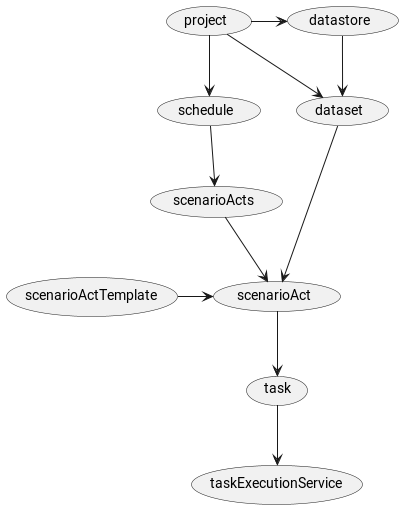
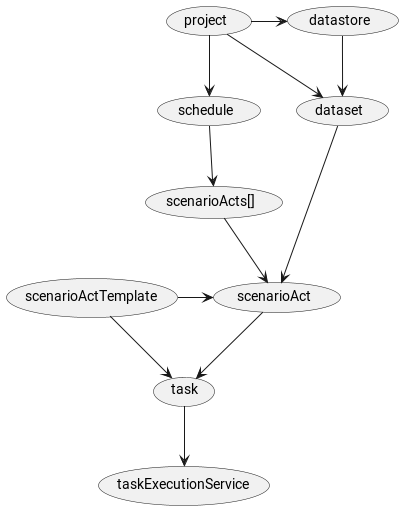
Docs and demo

diff --git a/doc/scheduling/Scheduling.md b/doc/scheduling/Scheduling.md
@@ -1,0 +1,54 @@
+# Работа с расписаниями
+## Структура расписания
+Конфигурация расписания содержит как простые атрибуты, так и коллекции вложенных конфигураций
+
+- **name** - уникальное ключевое имя расписания
+- **description** текстовое описание расписания для документирования
+- **intervalExpression** - кодированное выражение описывающее интервальность на пример "@daily"
+- **startDateTime** дата, которая служит отправной точкой для расчета первого интервала. Необязательно, что она будет равна дате первого расписания тк она рассчитывается с использованием интервального выражения
+- **stopDateTime** дата прекращения расчета новых интервалов, может быть пустой , что будет означать бесконечность
+- **enabled** включает/выключает процесс расчета новых расписание. Выключение так же приводит к прекращению обработки статусов уже работающих расписаний.
+- **scenarioActs** - это список вложенных частей сценария(Акты). Части сценария могут быть добавлены без учета порядка их выполнения
+  состав полей
+    - **name** ключевое имя акта. Должно быть уникально.
+    - **dataSet** ссылка на уникальное имя датасета
+    - **scenarioActTemplate** внутреннее устройство задач в акте может быть шаблонизировано, шаблоны используются повторно.
+    - **intervalStart** строковое выражение метки времени отражающего нижнюю границу окна времени в данных, которое будет изменено в датасете. Чаще всего отстает от целевого времени запуска пример "{{ adddays(targetDateTimeTZ, -1) }}".
+    - **intervalEnd** строковое выражение метки времени отражающего верхнюю границу окна времени в данных, которое будет изменено в датасете". Чаще всего может быть равно целевой метке времени "{{ targetDateTimeTZ }}"
+    - **tasks** Список вложенных объектов - описаний задач. Может быть пустым, но тогда должен быть задан шаблон. Этот список сливается со списком из шаблона. При наличии задачи с одинаковым ключем берутся обе и сливаются в одну. Их также будут слиты, значения атрибутов из текущего списка заменят значения из шаблона
+        - name ключевое имя задачи
+        - taskExecutionServiceGroupName тип исполнителя, которому можно брать эту задачу
+        - executionModule имя программного класса который должен будет исполнен
+        - importance при не успешности выполнения задачи не кричные вернут успех.
+        - description текстовое описание для документирования
+    - dagEdges - указывается порядок исполнения задач
+        - from с какой
+        - to какую
+    - scenarioActEdges - указывает порядок исполнения актов в сценарии
+        - from с какого
+        - to какой
+
+
+## Порядок получения и обработки расписания
+
+![ConfigQueueScheduleQueueTask.png](ConfigQueueScheduleQueueTask.png)
+
+При получении и обновлении расписания в сервисе конфигурации формируется сообщение в очередь kafka.
+Сервис расписаний подхватывает сообщение и обновляет расписание в оперативном кеше.
+
+### Внутренний планировщик 
+![SchedulerClasses.png](SchedulerClasses.png)
+С момента появления в кеше расписания и его регистрации, жизненным циклом расписаний управляет внутренний шедулер.
+Шедулер отвечает за формирование расписаний, запуск, и обслуживание 
+## Работа расписания
+
+![SchedulingOrder.png](SchedulingOrder.png)
+
+Каждый переход фиксируется изменением статусной модели.
+
+
+![ScheduleStatuses.png](ScheduleStatuses.png)
+
+
+
+

diff --git a/demo/README-INSTALL.md b/demo/README-INSTALL.md
@@ -55,6 +55,6 @@ docker container rm scheduler-svc
 Выполнить файл load.bash
 Он загрузит демонстрационные данные в сервис конфигурации. Через несколько секунд после этого сервис исполнитель начнет выполнять демонстрационные задачи
 
-### зависимость ключей в конфигурациях
+### Зависимость ключей в конфигурациях
 ![зависимость ключей в конфигурациях](../doc/entities_design/logical_entities_dependency.png)
 

diff --git a/demo/README-SCENARIO.md b/demo/README-SCENARIO.md
@@ -58,7 +58,7 @@ regular тоже начнет работать в феврале, но он су
 
 Несмотря на путаницу в расписаниях, мы получаем строго полный год данных на всех датасетах
 
-
+## Способ наблюдения
 Для наблюдения за происходящим можно использовать запросы:
 [task_work_view.sql](../Scripts/task_work_view.sql) - задачи активных сценариев расписаний. Фильтр по сценариям наиболее информативный.
 

diff --git a/doc/state_model/state-models.MD b/doc/state_model/state-models.MD
@@ -1,10 +1,10 @@
 # Scheduler state models
 ## Schedule states
-![schedule_state_model.png](schedule_state_model.png)
+![schedule_state_model.png](../scheduling/schedule_state_model.png)
 ## ScenarioAct states
-![scenario_act_state_model.png](scenario_act_state_model.png)
+![scenario_act_state_model.png](../scheduling/scenario_act_state_model.png)
 ## Task states
-![task_state_model.png](task_state_model.png)
+![task_state_model.png](../scheduling/task_state_model.png)
 
 # DataSet interval states
 ![data_set_interval_state_model.png](data_set_interval_state_model.png)

diff --git a/README.md b/README.md
@@ -22,6 +22,8 @@ United namespace
 
 [Entities design](./doc/entities_design/entities_design.md)
 
+[Scheduling](doc/scheduling/Scheduling.md)
+
 [States](doc/state_model/state-models.MD)
 
 [Command line](./lakehouse-cli/doc/commandline.MD)

diff --git a/demo/README.md b/demo/README.md
@@ -1,3 +1,5 @@
 # Демо 
+
 [Как установить и запустить](README-INSTALL.md)
+
 [Что будет происходить](README-SCENARIO.md)

diff --git a/doc/configuration_files_example/configuration_files_example.md b/doc/configuration_files_example/configuration_files_example.md
@@ -1,4 +1,4 @@
-# Configuration files example
+# [Not realised yet]Configuration files example
 ## Shared repository
 
 ```
